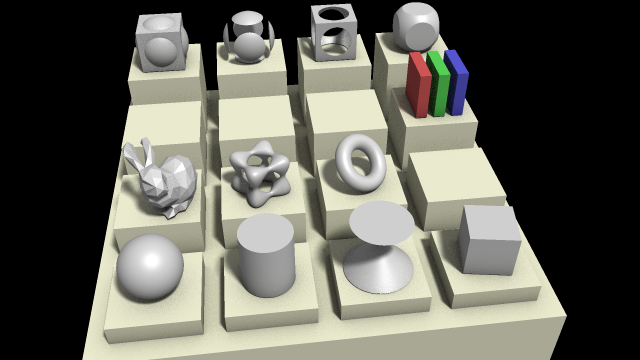
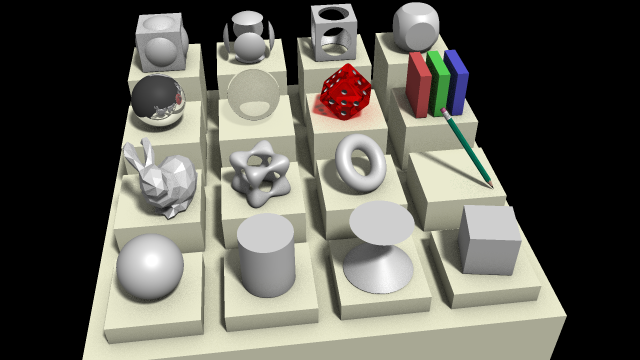
Parser fix: import().
Fixed import() error in parser, and improve tests in test_1.scn.

diff --git a/includes/Matrix.hpp b/includes/Matrix.hpp
@@ -112,31 +112,6 @@ namespace Math
       return matrix;
     }
 
-    std::string				dump() const
-    {
-      std::stringstream			stream;
-
-      stream << "[";
-      for (unsigned int row = 0; row < cRow; row++)
-      {
-	if (row != 0)
-	  stream << ", ";
-	stream << "[";
-
-	for (unsigned int col = 0; col < cCol; col++)
-	{
-	  if (col != 0)
-	    stream << ", ";
-	  stream << _matrix[row][col];
-	}
-	
-	stream << "]";
-      }
-      stream << "]";
-
-      return stream.str();
-    }
-
     template<typename ... Doubles>
     static Math::Matrix<cRow, cCol>	translation(Doubles... args)				// Generate translation matrix
     {
@@ -169,6 +144,31 @@ namespace Math
 	  matrix(i, i) = transformation[0];
 
       return matrix;
+    }
+
+    std::string				dump() const						// Dump the matrix in a string
+    {
+      std::stringstream			stream;
+
+      stream << "[";
+      for (unsigned int row = 0; row < cRow; row++)
+      {
+	if (row != 0)
+	  stream << ", ";
+	stream << "[";
+
+	for (unsigned int col = 0; col < cCol; col++)
+	{
+	  if (col != 0)
+	    stream << ", ";
+	  stream << _matrix[row][col];
+	}
+
+	stream << "]";
+      }
+      stream << "]";
+
+      return stream.str();
     }
 
     // Methods specialized in Matrix.cpp

diff --git a/sources/Parser.cpp b/sources/Parser.cpp
@@ -77,6 +77,7 @@ RT::Scene *		RT::Parser::load(std::string const & path)
   }
 
   _transformation.pop();
+
   return _scene;
 }
 
@@ -148,13 +149,15 @@ RT::AbstractTree *		RT::Parser::import(std::string const & path)
   script.add(chaiscript::fun(&RT::Parser::settingCamera, this), "camera");
   script.add(chaiscript::fun(&RT::Parser::settingResolution, this), "resolution");
   // Others
-  script.add(chaiscript::fun(&RT::Parser::load, this), "import");
+  script.add(chaiscript::fun(&RT::Parser::import, this), "import");
 
   // Initailize scope
   RT::UnionNode *	topNode;
   size_t		scopeDepth;
   
   topNode = new RT::UnionNode();
+  if (!_scope.empty())
+    _scope.top()->push(topNode);
   _scope.push(topNode);
   _files.push(path);
   scopeDepth = _scope.size();
@@ -169,6 +172,7 @@ RT::AbstractTree *		RT::Parser::import(std::string const & path)
   // Clean initial scope
   _scope.pop();
   _files.pop();
+
   return topNode;
 }
 

diff --git a/sources/BoundingNode.cpp b/sources/BoundingNode.cpp
@@ -17,7 +17,7 @@ std::list<RT::Intersection>	RT::BoundingNode::renderChildren(Math::Ray const & r
   // Stop if no intersection with bounding tree
   if (_children.empty() || _children.front()->render(ray).empty())
     return std::list<RT::Intersection>();
-
+  
   // Iterate through sub-tree to get intersections
   for (std::list<RT::AbstractTree const *>::const_iterator it = std::next(_children.begin()); it != _children.end(); it++)
   {

diff --git a/sources/Math.cpp b/sources/Math.cpp
@@ -40,8 +40,8 @@ std::vector<double>	Math::Utils::solve(double a, double b, double c)
 std::vector<double>	Math::Utils::solve(double a, double b, double c, double d, double e)
 {
   std::vector<double>   result;
-  double		delta, x1, x2;
-  double		tmp1[5], tmp2[4];
+  long double		delta, x1, x2;
+  long double		tmp1[5], tmp2[4];
 
 #ifdef _DEBUG
   // Check for invalid parameter
